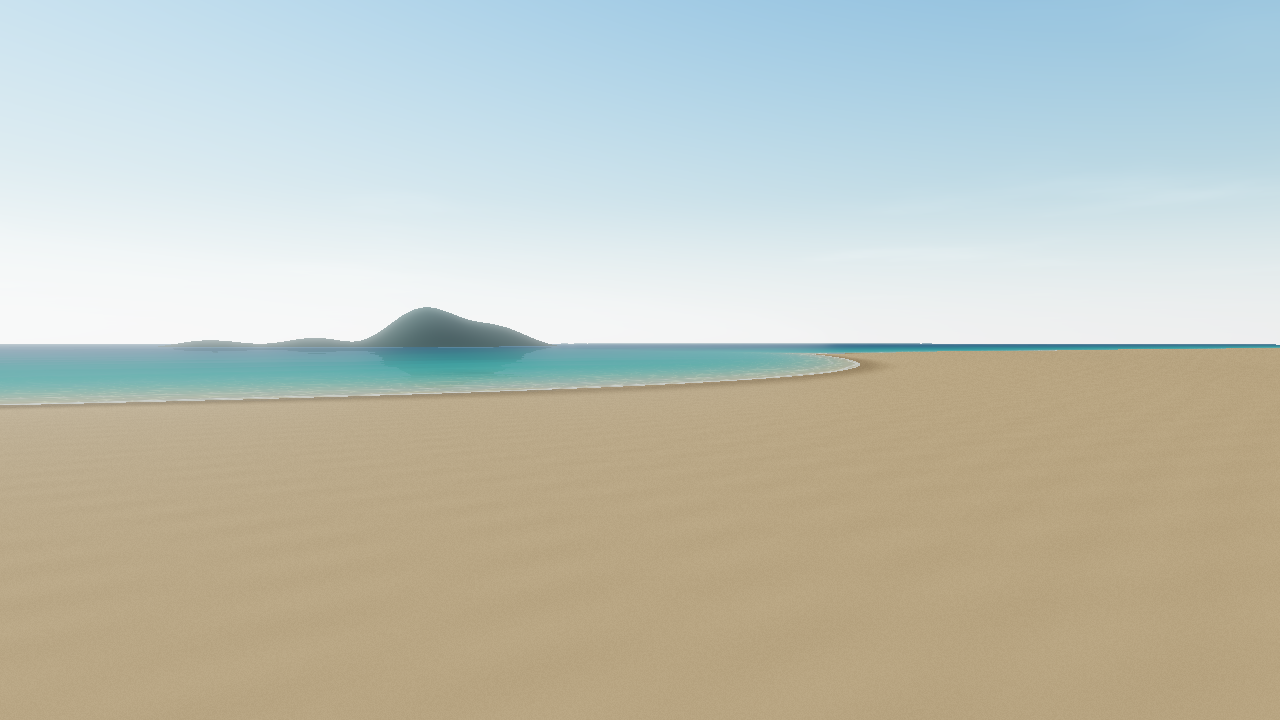
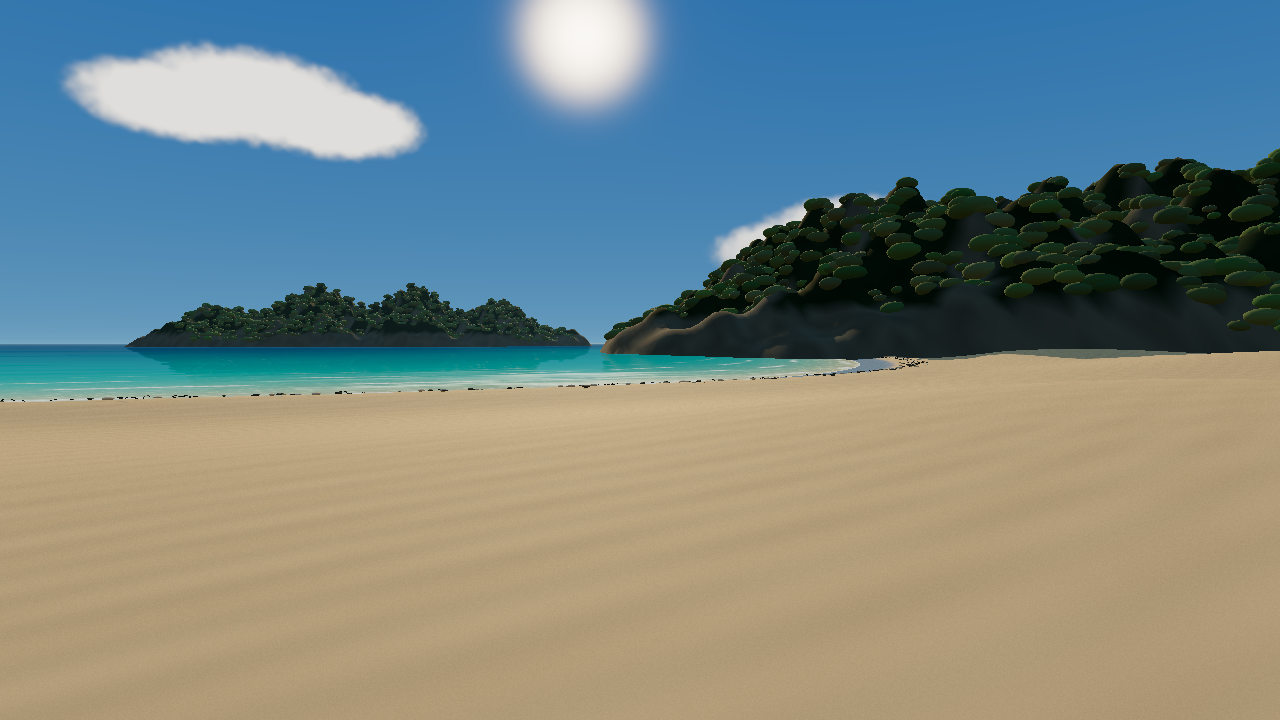
底座第二版（codex）
Claude-Session: https://claude.ai/code/session_017Dz5B2YiHcy7TFMdGQHEuj

diff --git a/src/main.js b/src/main.js
@@ -1,12 +1,12 @@
 import * as THREE from 'three';
 import { Water } from 'three/addons/objects/Water.js';
-import { Sky } from 'three/addons/objects/Sky.js';
 import { OrbitControls } from 'three/addons/controls/OrbitControls.js';
 import { EffectComposer } from 'three/addons/postprocessing/EffectComposer.js';
 import { RenderPass } from 'three/addons/postprocessing/RenderPass.js';
 import { UnrealBloomPass } from 'three/addons/postprocessing/UnrealBloomPass.js';
 import { OutputPass } from 'three/addons/postprocessing/OutputPass.js';
 import { groundHeight, shoreGLSL } from './terrain.js';
+import { addCoastDetails } from './coast.js';
 import { propRoot, loadProps } from './props.js';
 const params=new URLSearchParams(location.search);
 const renderer=new THREE.WebGLRenderer({antialias:true});
@@ -16,12 +16,24 @@ renderer.shadowMap.enabled=true;renderer.shadowMap.type=THREE.PCFSoftShadowMap;
 document.body.appendChild(renderer.domElement);
 const scene=new THREE.Scene();scene.fog=new THREE.FogExp2(0x9fc4d4,.0007);
 const camera=new THREE.PerspectiveCamera(52,innerWidth/innerHeight,.1,4000);
-const sky=new Sky();sky.scale.setScalar(4500);sky.material.fragmentShader=sky.material.fragmentShader.replace("vec4( texColor, 1.0 )","vec4( texColor * 0.48, 1.0 )");scene.add(sky);
-Object.assign(sky.material.uniforms.turbidity,{value:1.7});sky.material.uniforms.rayleigh.value=2.5;
-sky.material.uniforms.mieCoefficient.value=.003;sky.material.uniforms.mieDirectionalG.value=.82;
-const sun=new THREE.Vector3(-.45,.65,-.62).normalize();sky.material.uniforms.sunPosition.value.copy(sun);
-scene.add(new THREE.HemisphereLight(0xd8edff,0xc9a777,.85));
-const light=new THREE.DirectionalLight(0xfff1da,2.3);light.position.copy(sun).multiplyScalar(100);scene.add(light);
+const sky=new THREE.Mesh(new THREE.SphereGeometry(1800,32,16),new THREE.ShaderMaterial({side:THREE.BackSide,depthWrite:false,uniforms:{},vertexShader:`varying vec3 direction;void main(){direction=position;gl_Position=projectionMatrix*modelViewMatrix*vec4(position,1.);}`,fragmentShader:`
+ varying vec3 direction;
+ float hash(vec2 p){return fract(sin(dot(p,vec2(127.1,311.7)))*43758.5453);}
+ float noise(vec2 p){vec2 i=floor(p),f=fract(p);f=f*f*(3.-2.*f);return mix(mix(hash(i),hash(i+vec2(1,0)),f.x),mix(hash(i+vec2(0,1)),hash(i+1.),f.x),f.y);}
+ void main(){vec3 d=normalize(direction);float h=max(d.y,0.);vec3 col=mix(vec3(.24,.53,.79),vec3(.012,.15,.48),pow(h,.28));
+ vec2 uv=vec2(atan(d.x,-d.z),asin(d.y));
+ float cloud=0.;float shade=0.;
+ for(int i=0;i<4;i++){vec2 center=vec2(-.65+float(i)*.76,.19+.09*sin(float(i)*2.));
+ vec2 q=(uv-center)/vec2(.115,.045);
+ float billow=min(length(q-vec2(-.65,.02)),min(length((q-vec2(.0,.36))*vec2(.85,.8)),length(q-vec2(.75,-.04))));
+ float n=noise(uv*85.)*.10+noise(uv*173.)*.04;
+ cloud=max(cloud,1.-smoothstep(.72,1.12,billow+n));shade=max(shade,clamp(q.y*.30+.55,0.,1.)*cloud);}
+ col=mix(col,mix(vec3(.47,.59,.72),vec3(1.5,1.42,1.28),shade),cloud*.95);
+ float sun=pow(max(0.,dot(d,normalize(vec3(.45,.38,-.8)))),850.);col+=vec3(5.,3.8,2.3)*sun;
+ gl_FragColor=vec4(col,1.);}` }));scene.add(sky);
+const sun=new THREE.Vector3(.45,.38,-.8).normalize();
+scene.add(new THREE.HemisphereLight(0xb8dfff,0xc9a777,1.25));
+const light=new THREE.DirectionalLight(0xffd7a0,3.4);light.position.copy(sun).multiplyScalar(100);scene.add(light);
 light.castShadow=true;light.shadow.mapSize.set(2048,2048);Object.assign(light.shadow.camera,{left:-65,right:65,top:65,bottom:-65});light.shadow.bias=-.0004;
 const geo=new THREE.PlaneGeometry(2,2,500,500);geo.rotateX(-Math.PI/2);
 const pos=geo.attributes.position;for(let i=0;i<pos.count;i++){const x=Math.sign(pos.getX(i))*pos.getX(i)**2*2200,z=Math.sign(pos.getZ(i))*pos.getZ(i)**2*2200;pos.setXYZ(i,x,groundHeight(x,z),z);}geo.computeVertexNormals();
@@ -30,11 +42,23 @@ sandMat.onBeforeCompile=s=>{
  s.vertexShader='varying vec3 vWorld;\n'+s.vertexShader;s.vertexShader=s.vertexShader.replace('#include <begin_vertex>','#include <begin_vertex>\nvWorld=(modelMatrix*vec4(position,1.)).xyz;');
  s.fragmentShader='varying vec3 vWorld;\n'+shoreGLSL+'\n'+s.fragmentShader;
  s.fragmentShader=s.fragmentShader.replace('#include <color_fragment>',`#include <color_fragment>
- float d=vWorld.z-shore(vWorld.x);
+ float d=vWorld.z-shore(vWorld.x)+.22*sin(vWorld.x*1.7)+.12*sin(vWorld.x*4.1);
  float grain=fract(sin(dot(vWorld.xz,vec2(123.23,47.77)))*43567.2);
  float ripple=sin(vWorld.x*2.2+sin(vWorld.z*.7)*2.0+sin(vWorld.x*.3))*sin(vWorld.z*8.0);
- diffuseColor.rgb*=mix(.58,1.0,smoothstep(0.,4.,d))*(.95+grain*.10+ripple*.025);
+ diffuseColor.rgb*=mix(.42,1.0,smoothstep(1.9,3.8,d))*(.95+grain*.10+ripple*.035);
  `);
+ s.fragmentShader=s.fragmentShader.replace('#include <roughnessmap_fragment>',`#include <roughnessmap_fragment>
+ roughnessFactor=mix(.12,.92,smoothstep(2.5,3.6,vWorld.z-shore(vWorld.x)));`);
+ s.fragmentShader=s.fragmentShader.replace('#include <normal_fragment_maps>',`#include <normal_fragment_maps>
+ float dry=smoothstep(3.,5.,vWorld.z-shore(vWorld.x));
+ float phase=vWorld.z*15.+sin(vWorld.x*.8)*1.8+sin(vWorld.z*1.4);
+ vec3 rippleNormal=vec3(cos(phase)*.012,0.,cos(phase)*.035);
+ normal=normalize(normal+mat3(viewMatrix)*rippleNormal*dry*(.55+.45*sin(vWorld.x*.34)*sin(vWorld.z*.56))/(1.+length(vViewPosition)*.012));`);
+ s.fragmentShader=s.fragmentShader.replace('#include <opaque_fragment>',`
+ float wet=1.-smoothstep(2.5,3.6,vWorld.z-shore(vWorld.x));
+ float fresnel=pow(1.-abs(dot(normal,normalize(vViewPosition))),3.);
+ outgoingLight=mix(outgoingLight,vec3(.20,.39,.55)*(1.+.08*sin(vWorld.x*2.+vWorld.z*8.)),wet*(.07+.55*fresnel));
+ #include <opaque_fragment>`);
 };
 const sand=new THREE.Mesh(geo,sandMat);sand.receiveShadow=true;scene.add(sand);
 // Periodic normal map, generated locally; no remote texture dependency.
@@ -48,7 +72,7 @@ for(let y=0;y<n;y++)for(let x=0;x<n;x++){
 const normals=new THREE.DataTexture(data,n,n);normals.wrapS=normals.wrapT=THREE.RepeatWrapping;normals.generateMipmaps=true;normals.minFilter=THREE.LinearMipmapLinearFilter;normals.magFilter=THREE.LinearFilter;normals.needsUpdate=true;
 const water=new Water(new THREE.PlaneGeometry(4000,4000,320,320),{textureWidth:512,textureHeight:512,waterNormals:normals,sunDirection:sun,sunColor:0xfff4da,waterColor:0x087f9c,distortionScale:1.6,fog:true});
 water.rotation.x=-Math.PI/2;water.position.y=.035;scene.add(water);
-water.material.uniforms.size.value=9;
+water.material.uniforms.size.value=18;
 water.material.vertexShader=water.material.vertexShader.replace('void main() {',shoreGLSL+'\nvoid main() {').replace('worldPosition = mirrorCoord.xyzw;',`worldPosition = mirrorCoord.xyzw;
  float coast=shore(worldPosition.x)-worldPosition.z;
  float swell=(sin(worldPosition.z*.65+time*1.3+worldPosition.x*.12)*.055+sin(worldPosition.x*.9+worldPosition.z*.7-time)*.025)*smoothstep(0.,10.,coast);
@@ -66,19 +90,15 @@ water.material.fragmentShader=water.material.fragmentShader.replace('vec3 outgoi
  vec3 bottom=vec3(.65,.57,.36)*(1.+ripple*.07)+vec3(.23,.28,.15)*caustic;
  vec3 shallow=mix(bottom,vec3(.015,.55,.48),1.-exp(-depth*1.4));
  vec3 sea=mix(shallow,vec3(.008,.105,.23),1.-exp(-depth*.13));
- float crest=sin(coast*2.5-time*1.5+sin(worldPosition.x*.5)*.45);
- float foam=pow(max(0.,crest),14.)*(1.-smoothstep(.3,4.5,coast));
+ float crest=sin(coast*1.05-time*1.5+sin(worldPosition.x*.23)*.55);
+ float foam=pow(max(0.,crest),12.)*(1.-smoothstep(3.,24.,coast));
  float breakup=.5+.5*sin(p.x*13.+sin(p.y*21.));
- foam*=.5+.5*breakup;
+ foam*=smoothstep(-.6,.5,sin(p.x*.63+sin(p.y*.4))+sin(p.x*1.4)*.5)*(.5+.5*breakup);
  float edge=(1.-smoothstep(.02,.35+breakup*.2,coast))*.6;
- vec3 outgoingLight=mix(sea,min(reflectionSample,vec3(.22,.42,.6)),min(.22,reflectance*.22)) + specularLight*.24;
+ vec3 outgoingLight=mix(sea,min(reflectionSample,vec3(.22,.42,.6)),min(.22,reflectance*.22)) + min(specularLight*.22,vec3(.8));
  outgoingLight=mix(outgoingLight,vec3(.88,.95,.89),clamp(foam+edge,0.,.85));
 `);
-// A continuous distant island landform, outside the prop experiment.
-const islandGeo=new THREE.PlaneGeometry(210,80,120,40);islandGeo.rotateX(-Math.PI/2);
-const ip=islandGeo.attributes.position;
-for(let i=0;i<ip.count;i++){const x=ip.getX(i),z=ip.getZ(i);const envelope=Math.max(0,1-(x/105)**2)*Math.max(0,1-(z/40)**2);ip.setY(i,Math.pow(envelope,2)*(12+9*Math.sin(x*.045)+3*Math.sin(x*.13))-.8);}islandGeo.computeVertexNormals();
-const island=new THREE.Mesh(islandGeo,new THREE.MeshStandardMaterial({color:0x315f60,roughness:1}));island.position.set(90,0,-340);scene.add(island);
+addCoastDetails(scene);
 scene.add(propRoot);
 const {config,results}=await loadProps(params.get('group')||'A');
 const view=config.cameras[params.get('cam')]||config.cameras.wide;camera.position.fromArray(view.pos);camera.lookAt(new THREE.Vector3().fromArray(view.target));

diff --git a/src/coast.js b/src/coast.js
@@ -1,0 +1,24 @@
+import * as THREE from 'three';
+import { shore, groundHeight } from './terrain.js';
+// Shared landscape details, deliberately outside the experimental prop root.
+export function addCoastDetails(scene) {
+ let seed=7921;
+ const rand=()=>{seed=(1664525*seed+1013904223)>>>0;return seed/4294967296;};
+ const land=new THREE.Group();land.name='shared-coastal-landforms';scene.add(land);
+ function hill(cx,cz,rx,rz,height){
+  const shape=(x,z)=>{const e=Math.max(0,1-(x/rx)**2-(z/rz)**2);return Math.pow(e,.7)*(height*(.70+.18*Math.sin(x*.14+z*.06)+.12*Math.sin(x*.31-z*.22))+2*Math.sin(x*.8+z*.5))-.5;};
+  const g=new THREE.PlaneGeometry(rx*2,rz*2,110,70);g.rotateX(-Math.PI/2);const p=g.attributes.position,colors=[];
+  for(let i=0;i<p.count;i++){const x=p.getX(i),z=p.getZ(i),y=shape(x,z);p.setY(i,y);const vegetation=y>height*.20&&Math.sin(x*.32+z*.44)+Math.cos(z*.24)<1.1;const c=new THREE.Color(vegetation?0x24452c:0x73766b);c.multiplyScalar(.8+rand()*.35);colors.push(c.r,c.g,c.b);}
+  g.setAttribute('color',new THREE.Float32BufferAttribute(colors,3));g.computeVertexNormals();const mesh=new THREE.Mesh(g,new THREE.MeshStandardMaterial({vertexColors:true,roughness:1}));mesh.position.set(cx,0,cz);mesh.receiveShadow=true;mesh.castShadow=true;land.add(mesh);
+  const trees=new THREE.InstancedMesh(new THREE.IcosahedronGeometry(1,1),new THREE.MeshStandardMaterial({color:0xffffff,roughness:1}),3200);const dummy=new THREE.Object3D();
+  for(let i=0;i<3200;i++){let x=(rand()-.5)*rx*1.65,z=(rand()-.5)*rz*1.65,y=shape(x,z);if(y<3){i--;continue;}const r=.5+rand()*.9;dummy.position.set(cx+x,y-r*.3,cz+z);dummy.scale.set(r*1.5,r*.8,r*1.3);dummy.rotation.set(0,rand()*6,0);dummy.updateMatrix();trees.setMatrixAt(i,dummy.matrix);trees.setColorAt(i,new THREE.Color().setHSL(.26+rand()*.07,.28+rand()*.25,.13+rand()*.08));}trees.castShadow=true;land.add(trees);
+ }
+ hill(90,-340,105,40,29);hill(114,-58,64,78,29);
+ const debris=new THREE.Group();debris.name='shared-tide-debris';scene.add(debris);
+ const geometries=[new THREE.SphereGeometry(1,7,4),new THREE.IcosahedronGeometry(1,0),new THREE.TorusGeometry(1,.12,4,7,3.5)];
+ const materials=[new THREE.MeshStandardMaterial({color:0xeee1c8}),new THREE.MeshStandardMaterial({color:0x6e7167}),new THREE.MeshStandardMaterial({color:0x494333})];
+ for(let type=0;type<3;type++){
+  const m=new THREE.InstancedMesh(geometries[type],materials[type],240);const o=new THREE.Object3D();
+  for(let i=0;i<240;i++){const x=(rand()-.5)*150,z=shore(x)+3.8+rand()*1.5+Math.sin(x*1.7)*.4,r=.045+rand()*.10;o.position.set(x,groundHeight(x,z)+.025,z);o.scale.set(r*(type===2?2:1),r*.3,r*.7);o.rotation.set(0,rand()*6,0);o.updateMatrix();m.setMatrixAt(i,o.matrix);}m.castShadow=true;debris.add(m);
+ }
+}

diff --git a/src/terrain.js b/src/terrain.js
@@ -1,6 +1,9 @@
 export const shore = x => -12 - .009 * Math.min(x*x,6400) + 1.5*Math.sin(x*.075);
 export function groundHeight(x,z) {
  const d=z-shore(x);
- return d<0 ? Math.max(-18,d*.12) : 1.0*(1-Math.exp(-d/40)) + .16*Math.sin(x*.13)*Math.sin(z*.17)*Math.min(1,d/8);
+ if(d<0) return Math.max(-18,d*.12);
+ const berm=.34*Math.exp(-(((d-5.2)/2.2)**2));
+ const dunes=(.36+.27*Math.sin(x*.16+z*.09)+.18*Math.sin(z*.27-x*.09))*Math.min(1,Math.max(0,(d-6)/12));
+ return .75*(1-Math.exp(-d/32))+berm+dunes;
 }
 export const shoreGLSL = `float shore(float x){return -12.0-.009*min(x*x,6400.0)+1.5*sin(x*.075);}`;

diff --git a/NOTES.md b/NOTES.md
@@ -13,8 +13,8 @@ Open `http://localhost:5191/?group=A&cam=wide`. Fixed views are `wide`, `beach`,
 ## Built
 
 - Three.js Water with planar reflections, locally generated repeating normal map, animated fine normals and small geometric swells, sun specular glitter, depth-based turquoise-to-blue absorption, procedural seabed ripples and animated caustics, and broken shoreline foam.
-- A shared analytical shoreline controls terrain, wet sand, foam and water depth. Sand has gentle dunes, grain and ripple variation. A distant procedural island is part of the shared terrain, not a prop slot.
-- Three.js Sky, hemisphere and directional sunlight, ACES tone mapping, restrained bloom, atmospheric haze, and shadow support for future props.
+- A shared analytical shoreline controls terrain, wet sand, foam and water depth. Sand has dune relief, a raised berm, filtered wind-ripple normals, and a roughly three-metre dark, low-roughness wet band with an analytical sky-reflection tint. Seeded shells, pebbles and seaweed follow the high-tide debris line. Rocky ridges, dark canopy and a right-hand headland belong to the shared landscape, outside the prop slots.
+- Procedural tropical-blue sky with soft cumulus, warm afternoon directional sunlight and hemisphere fill, ACES tone mapping, restrained bloom, atmospheric haze, and shadow support for future props.
 - Eight empty `THREE.Group` markers preserve each slot's exact id and position. `src/props.js` exports `loadProps(group)`, `propRoot`, and one empty A function per slot in `slotStubs`.
 - B/C use `slot.paths.B` / `slot.paths.C` in `assets/props.json`, load with GLTFLoader, normalize bounding-box height, center X/Z, and place the minimum Y at the analytical ground height. Paths point to `assets/tripo/<id>.glb` and `assets/library/<id>.glb`.
 - Vite production builds copy the assets directory, including future GLBs, into `dist/assets`.
@@ -32,6 +32,19 @@ Four wide-view checkpoints record three screenshot → correction → screenshot
 
 Final camera images: `shots/A/wide.png`, `shots/A/beach.png`, `shots/A/closeup.png`. Props deliberately remain absent, so the fixed closeup is mostly empty sand until later groups are implemented.
 
+## Shared base polish — round 2
+
+Three additional screenshot → review → fix rounds used the unchanged wide and beach cameras, 1280×720 and frozen time 4. Each checkpoint also has a corresponding `shots/base2_rN_beach.png`.
+
+| Checkpoint | Review and subsequent fixes |
+| --- | --- |
+| `shots/base2_r1.png` | Added dunes/berm, wet band and tide debris, rolling breakers, blue sky, ridged island and right headland. Ripples were too strong and canopy too spherical/dark; reduced and distance-filtered ripple normals, shrank and increased canopy clusters, broke up foam lines. |
+| `shots/base2_r2.png` | Sand relief became subtler and surf readable. Sun glare was excessive, foliage material multiplied its instance colors too dark, and clouds were stretched; bounded glitter, corrected canopy color multiplication and replaced cloud patches with rounded cumulus. |
+| `shots/base2_r3.png` | Clouds were oversized and canopy still too coarse. Reduced cloud size, increased smaller canopy clusters, warmed wet sand, increased water-normal frequency for finer mid-distance detail and tightened visible glitter. |
+| `shots/A/{wide,beach,closeup}.png` | Final captures after the third correction, regenerated with the original `node scripts/shoot.mjs A`. |
+
+`src/props.js`, `assets/props.json`, cameras and all existing scripts are unchanged. Shared terrain still supplies the loader's analytical ground height. Landscape/debris geometry lives outside `propRoot`; all eight A slots remain empty.
+
 ## Verification
 
 - `npm run build` passes. Vite reports a nonblocking bundle-size advisory for the three.js bundle.
@@ -43,6 +56,6 @@ Final camera images: `shots/A/wide.png`, `shots/A/beach.png`, `shots/A/closeup.p
 
 - Water is an efficient analytical approximation, not a fluid simulation. The visible sandy bottom and caustics are evaluated inside the Water shader rather than through a refractive scene-depth buffer; submerged props will not refract correctly.
 - Foam animates along a fixed shoreline; it does not physically advance over the sand. Swells are small, with planar reflection approximations.
-- The island silhouette is simple; the low horizon is intentionally hazy. Sand and caustic patterns can reveal procedural repetition at close range.
+- Landforms and canopy are procedural approximations; individual foliage clusters remain discernible. Sand and caustic patterns can reveal repetition at close range. Wet sand uses an analytical sky-colored Fresnel approximation, not a second planar reflection pass.
 - Bounding-box grounding uses the slot center's ground height. Very wide future props may need per-asset adjustments to avoid local dune intersections. Animated/compressed GLB extensions have not been tested.
 - SwiftShader captures prioritize reproducibility, not real-device frame-rate measurement.

diff --git a/BRIEF_base2.md b/BRIEF_base2.md
@@ -1,0 +1,9 @@
+# Task: polish the shared beach base (round 2)
+
+Read NOTES.md and src/. Reviewer feedback on shots/A/{wide,beach}.png (scene without props):
+1. Sand reads as a flat beige plane: add visible dune relief and berm, wind ripples at grazing light, a clearly darker glossy wet-sand band (2-4 m) along the waterline that reflects the sky, scattered shells/pebbles/seaweed debris line.
+2. Sky is washed out grey-white near the horizon: deeper saturated tropical blue overhead, a few soft cumulus clouds, stronger warm afternoon sun so shadows and sun glitter on water are visible.
+3. Water: good turquoise gradient — keep it, but add visible breaking wave lines rolling toward shore with foam, and more surface detail in the mid distance.
+4. Distant island is a smooth blob: give it rocky ridges and dark vegetation.
+5. The far right is empty sand to the horizon: close the cove with a vegetated headland/hill on the right so the composition has a frame.
+Keep the prop slots, loader, cameras and scripts unchanged. Do 3 more screenshot→fix rounds (save shots/base2_r1.png...), then re-run `node scripts/shoot.mjs A` and update NOTES.md.

diff --git a/logs/base2.last.md b/logs/base2.last.md
@@ -1,0 +1,10 @@
+Completed three screenshot→fix rounds and regenerated all A views.
+
+- Added dunes, berm, wet sand, tide debris, surf, blue sky, cumulus, rocky island and vegetated headland.
+- Preserved slots, loader, cameras and scripts.
+- Updated [NOTES.md](/home/cw/git_project/beach3d-eval/NOTES.md).
+- Build, screenshots and verification pass.
+
+[Final wide view](/home/cw/git_project/beach3d-eval/shots/A/wide.png)
+
+Wet-sand sky reflection remains an analytical approximation.
